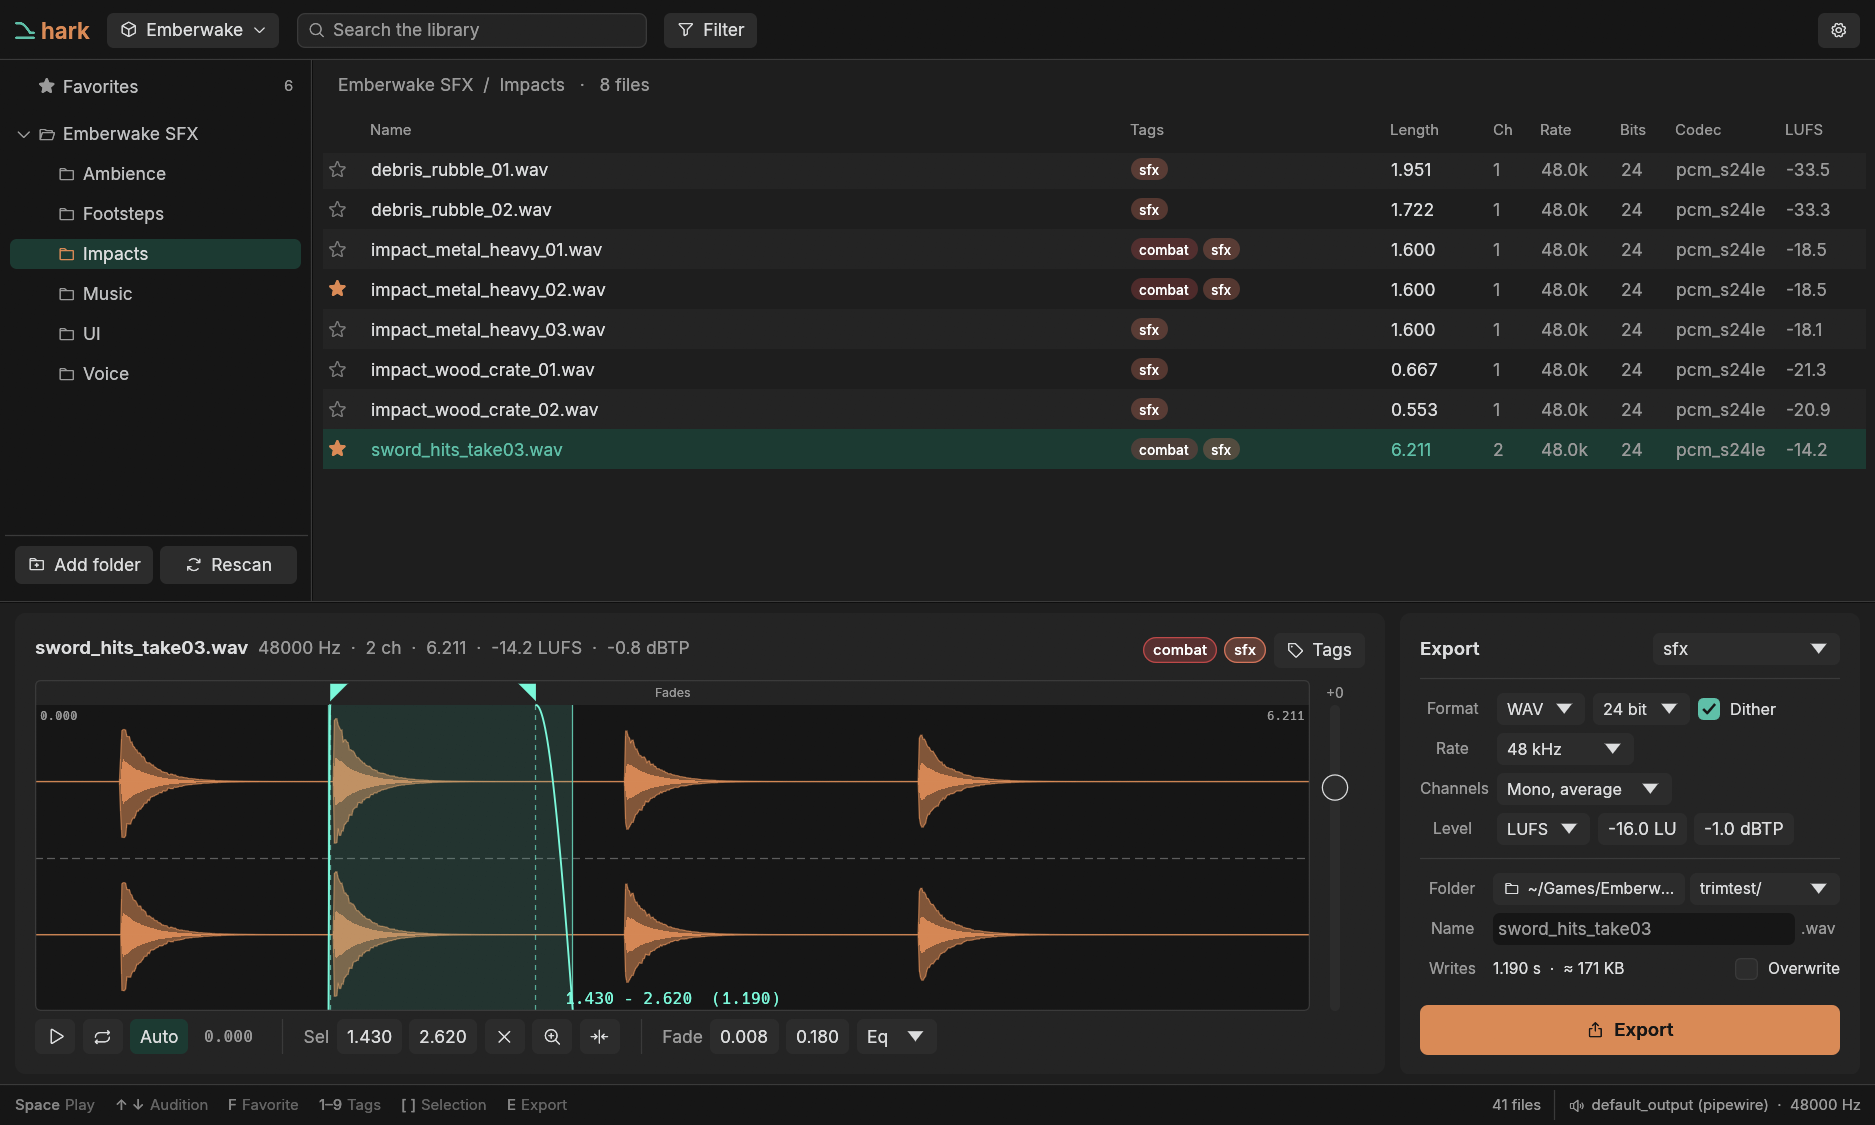
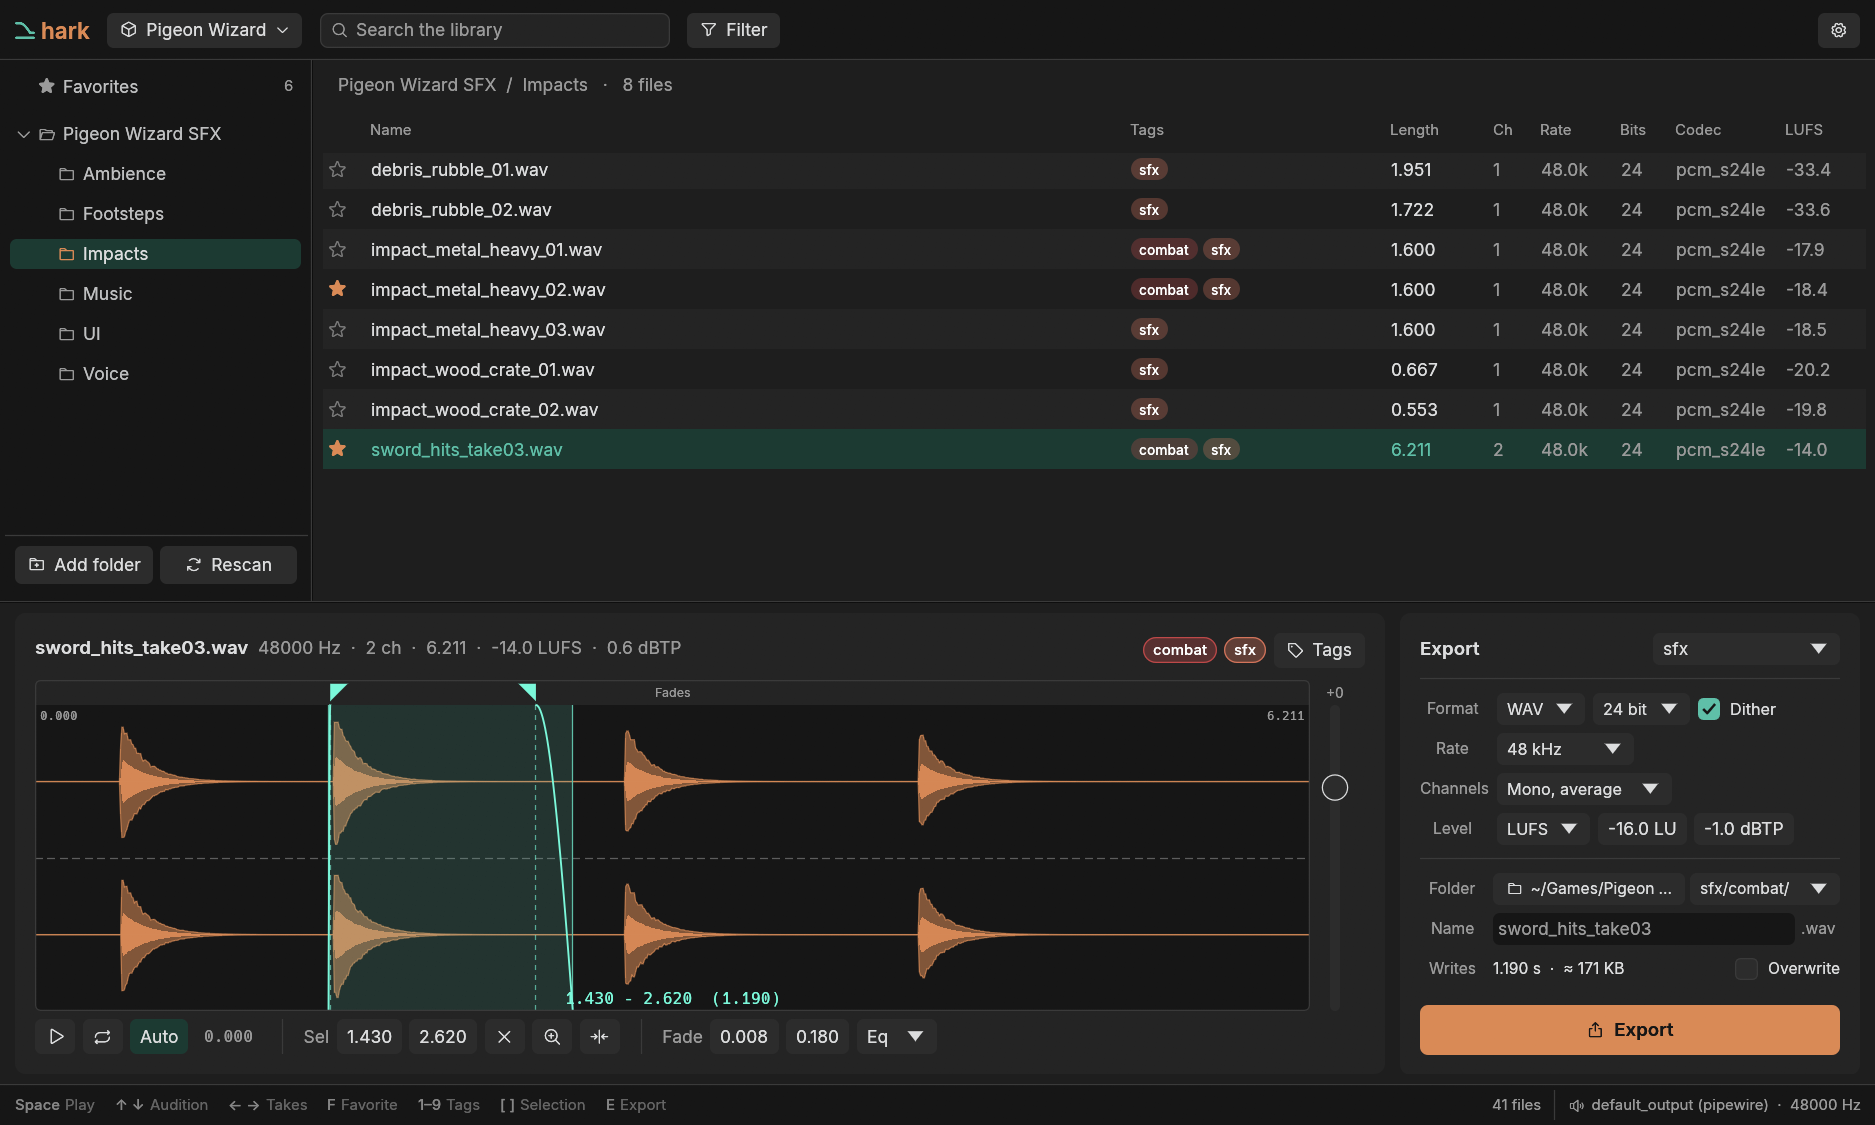
The stage project is Pigeon Wizard, a game that does not exist.

diff --git a/README.md b/README.md
@@ -85,10 +85,10 @@ hark-cli reexport ~/Projects/game/Assets/Audio/sfx/*.wav --preset sfx
 ```
 $ hark-cli inspect Assets/Audio/sfx/combat/impact_metal_heavy_02.wav
   wave pcm_s24le · 48000 Hz · 1 ch · 24 bit · 1.600s
-  bext: hark: Emberwake SFX:Impacts/impact_metal_heavy_02.wav
-  origin: hark: Emberwake SFX:Impacts/impact_metal_heavy_02.wav
+  bext: hark: Pigeon Wizard SFX:Impacts/impact_metal_heavy_02.wav
+  origin: hark: Pigeon Wizard SFX:Impacts/impact_metal_heavy_02.wav
     exported 2026-10-15T20:08:46+02:00 by hark 0.1.0 with preset sfx
-    source ~/Audio/Emberwake/Impacts/impact_metal_heavy_02.wav (230480 bytes, blake3 a1e93ed24193076e)
+    source ~/Audio/Pigeon Wizard/Impacts/impact_metal_heavy_02.wav (230480 bytes, blake3 a1e93ed24193076e)
     fades 0.000s / 0.000s · gain -1.33 dB (true-peak limited)
 ```
 
